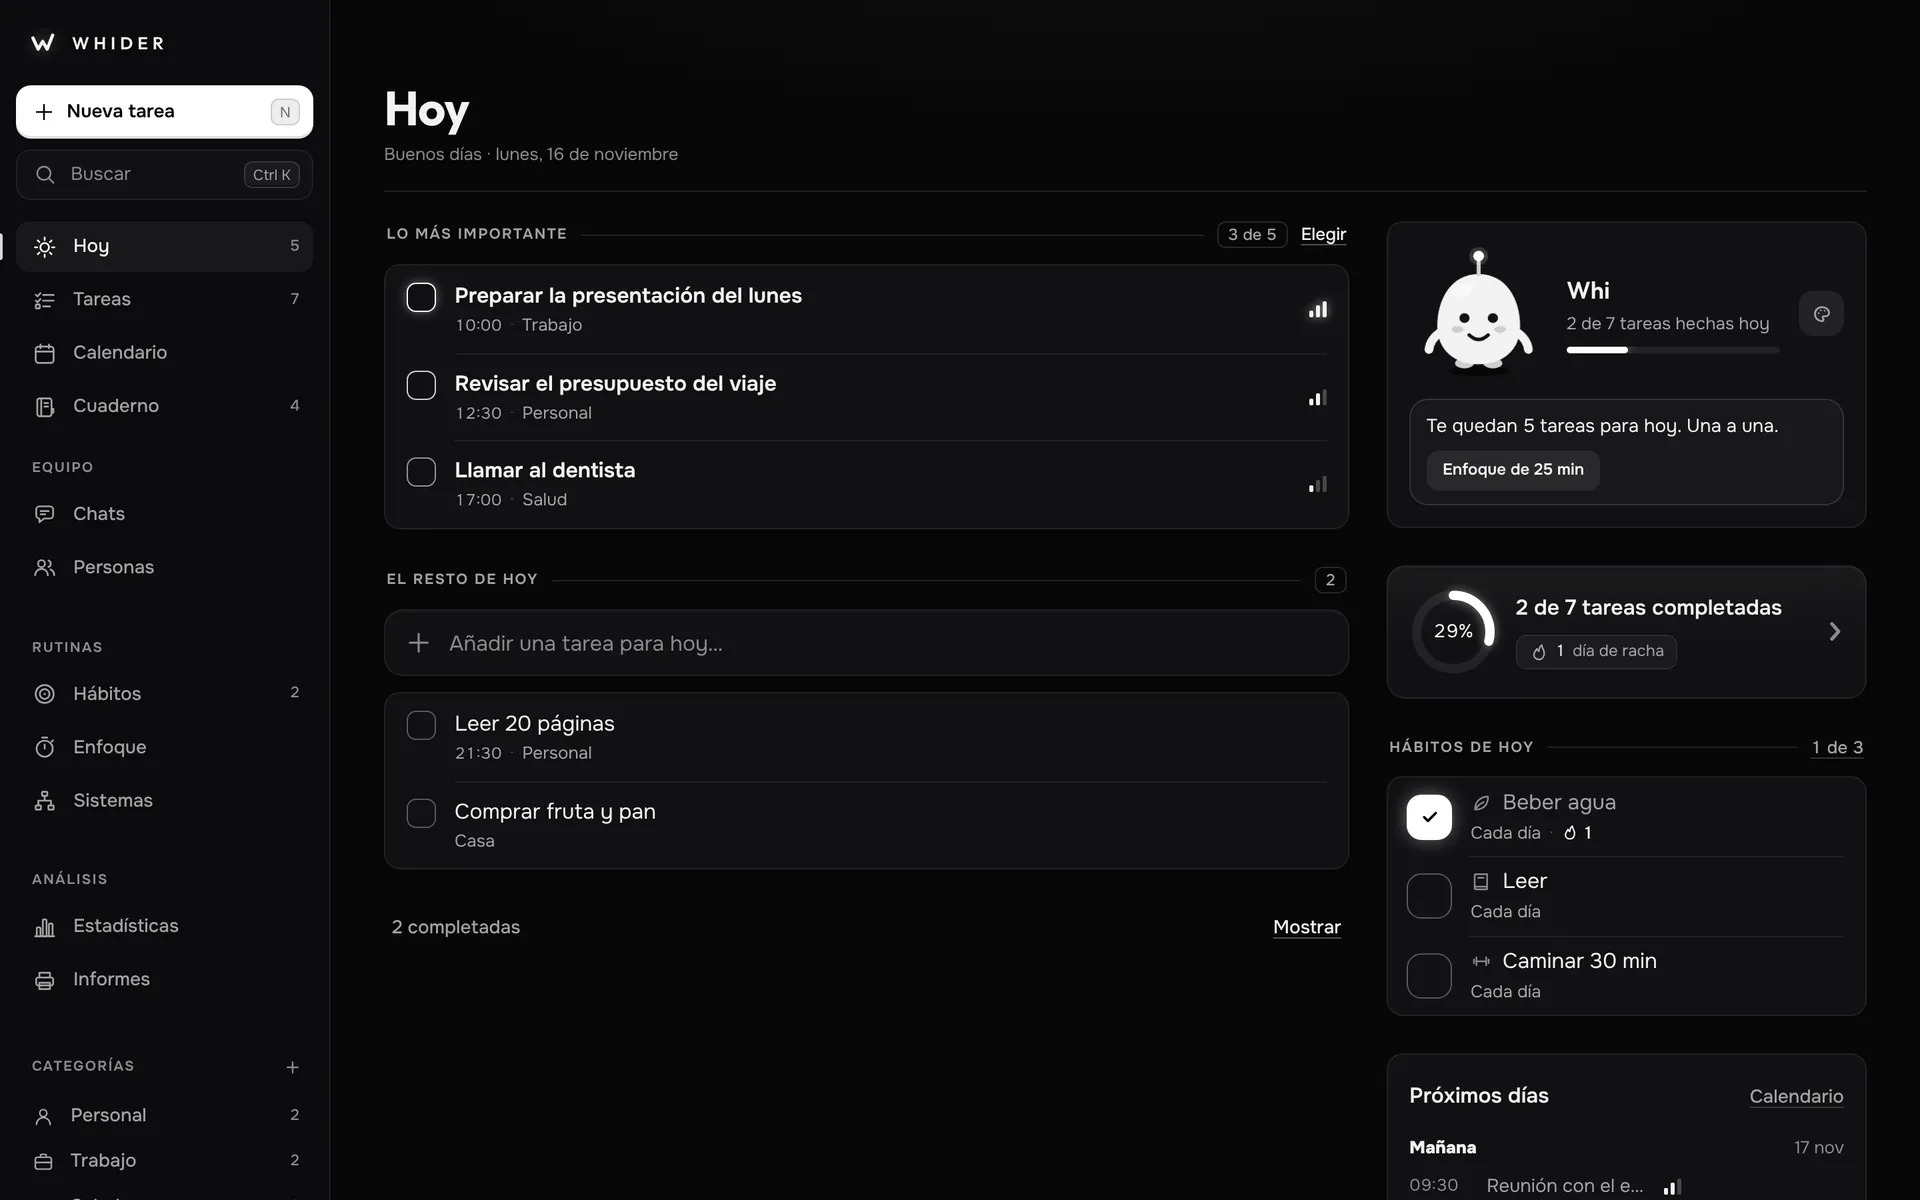
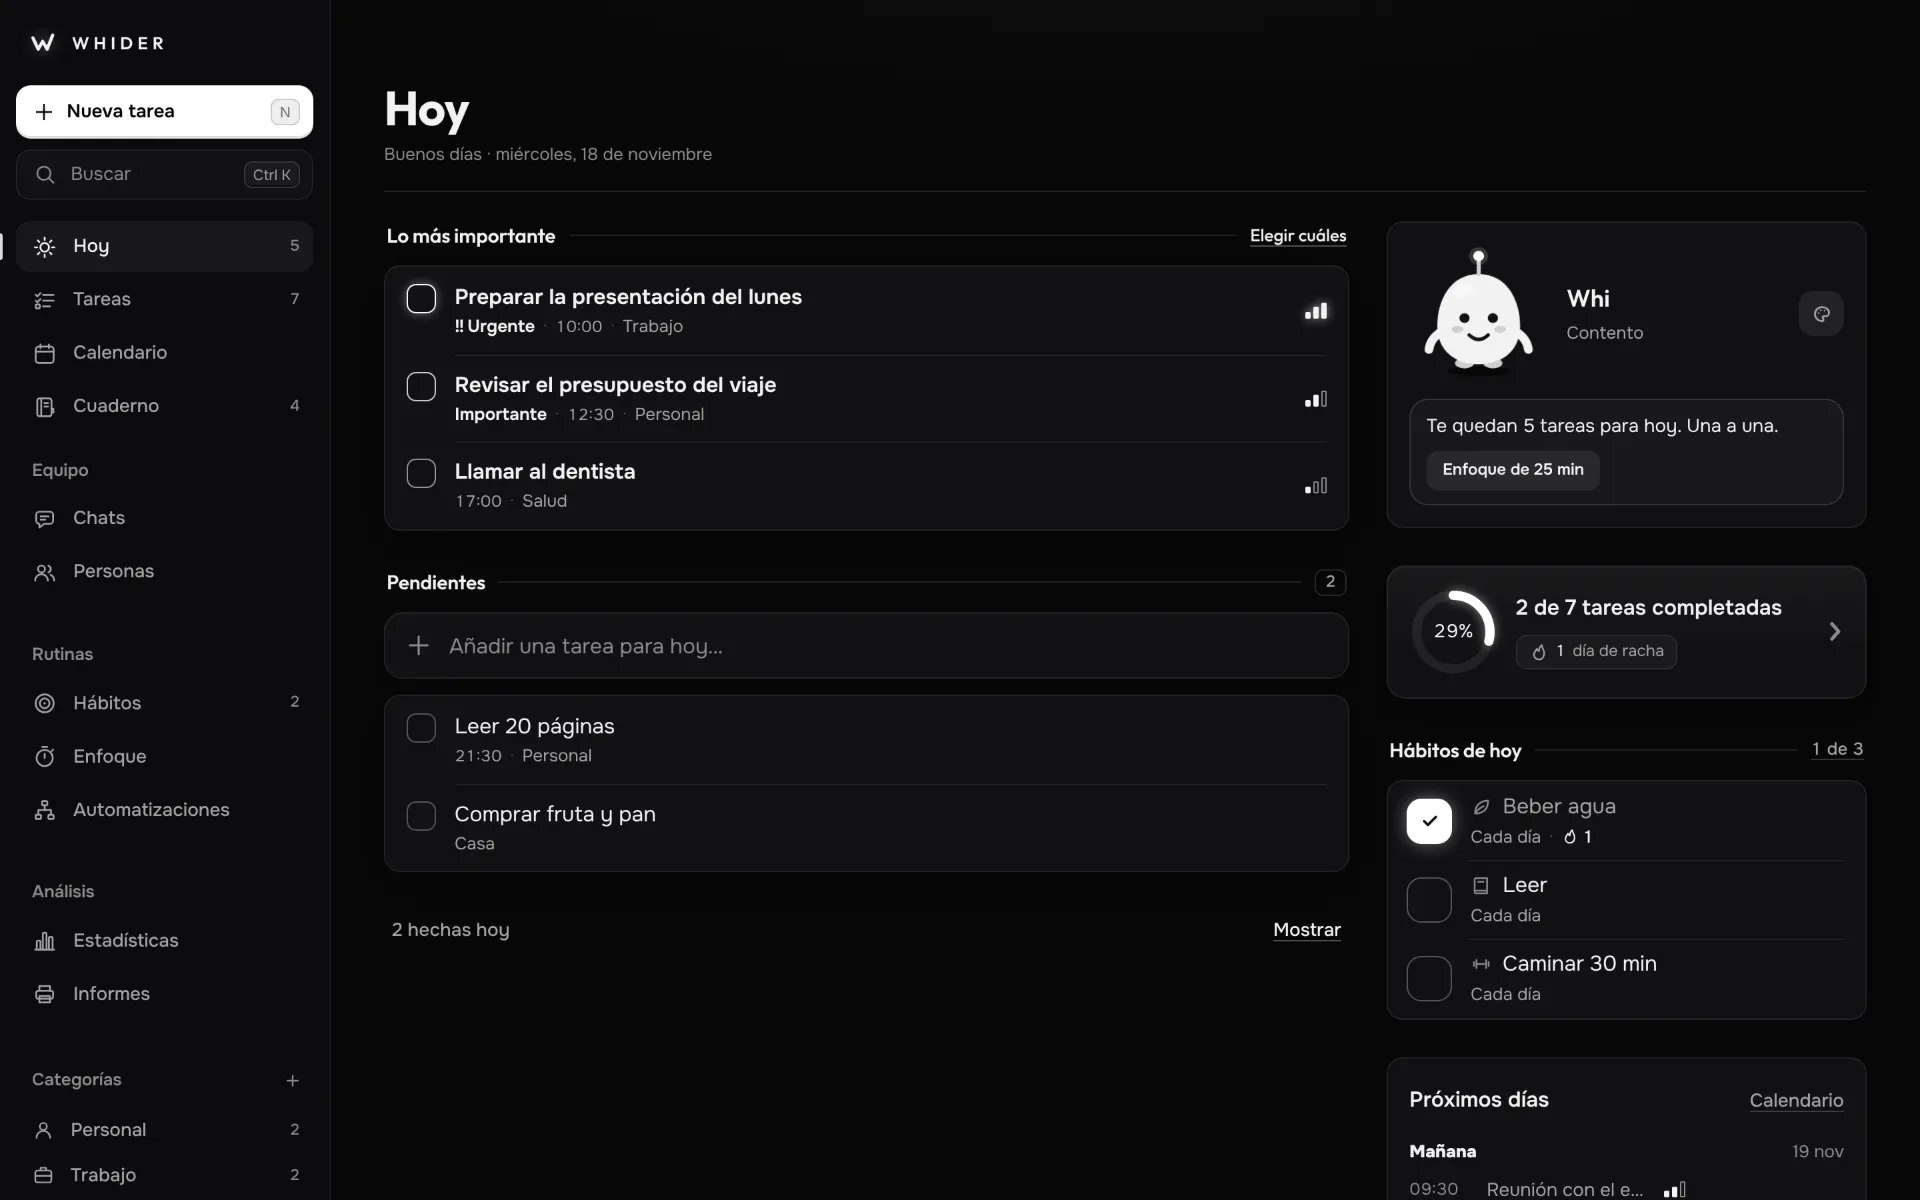
WHIDER 1.1.0
La 1.1 estable: tema claro, importar desde otras apps, un Hoy más claro, sincronización sin
pérdidas, copias automáticas, más seguridad y un ordenador que se actualiza solo.

- CHANGELOG: una sola entrada 1.1.0 con todo lo de la beta y lo posterior (quien viene de la 1.0
  lo ve entero en «Novedades»; la beta queda como historial).
- node tools/version.js 1.1.0: escritorio, Android (versionCode 1010099), la app y la portada
  («WHIDER 1.1» y sus novedades); las de la portada en inglés, traducidas.
- Capturas de la portada y la imagen para compartir, rehechas con la 1.1.

Al subirlo, «Publicar versión» compila Windows, macOS (Apple Silicon e Intel), Linux (AppImage
y .deb) y Android y publica v1.1.0 como «Latest».

Claude-Session: https://claude.ai/code/session_01CCsjTKE4cK7SuvKnaVPR8X

diff --git a/js/core/version.js b/js/core/version.js
@@ -1,25 +1,29 @@
 // Generado por tools/version.js desde package.json y CHANGELOG.md: no lo edites a mano.
 // Para cambiar la versión: node tools/version.js 1.2.3 (y su entrada en CHANGELOG.md).
 window.Whider = window.Whider || {};
-window.Whider.VERSION = "1.1.0-beta.1";
+window.Whider.VERSION = "1.1.0";
 window.Whider.RELEASES = [
  {
-  "v": "1.1.0-beta.1",
+  "v": "1.1.0",
   "date": "2026-11-18",
-  "summary": "Versión de prueba de la 1.1: el día a día más claro, importar desde otras apps, sincronización sin pérdidas y más seguridad.",
+  "summary": "La 1.1: tema claro, importar desde otras apps, un Hoy más claro, sincronización sin pérdidas, copias automáticas, más seguridad y un ordenador que se actualiza solo.",
   "groups": [
    {
     "t": "Novedades",
     "items": [
-     "**Importar** desde Todoist, Google Tasks, Notion, calendarios (.ics) o cualquier CSV, con vista previa, categorías nuevas, repetidas reconocidas y opción de deshacer durante un día (Ajustes → Datos → Importar y exportar).",
+     "**Importar** desde Todoist, Google Tasks, Notion, calendarios (.ics) o cualquier CSV, con vista previa, categorías nuevas, repetidas reconocidas y opción de deshacer durante un día (Ajustes → Datos → Importar desde otras apps).",
+     "**Tema claro**: Ajustes → Apariencia → Tema (Oscuro, Claro o «Como el sistema»). Toda la app, también la ventana del ordenador y las barras del sistema en Android, sin destellos al abrir; el alto contraste también funciona en claro.",
      "**Hoy, por estados**: lo más importante, en curso, vencidas, pendientes y hechas. Una tarea puede marcarse «En curso».",
+     "**Copias automáticas** sin cuenta: en el ordenador, una al día en la carpeta de datos de WHIDER (las 10 últimas, con la lista para recuperarlas); en Android, en Descargas › WHIDER › Copias (las 7 últimas, que siguen ahí aunque desinstales la app). En el navegador, un aviso en Hoy si pasa una semana sin copia.",
+     "**El ordenador se actualiza solo**: en Windows y en Linux (AppImage), WHIDER descarga la versión nueva y la instala al cerrar; en macOS y en Linux (.deb) avisa con el enlace.",
      "**Color por categoría** (opcional) y **prioridad legible**: «Urgente» e «Importante» se escriben junto a la tarea y pueden ir en color.",
-     "**Barra inferior a tu gusto** en el móvil: tres pestañas entre Hoy, Tareas, Calendario, Cuaderno, Chats, Hábitos y Enfoque.",
-     "**Primeros pasos**: cinco pasos que se cumplen solos mientras usas la app.",
      "**Android**: widget «Hoy», compartir texto con WHIDER desde otras apps y avisos a la hora exacta (permiso opcional).",
+     "**Barra inferior a tu gusto** en el móvil: tres pestañas entre Hoy, Tareas, Calendario, Cuaderno, Chats, Hábitos y Enfoque.",
+     "**Ayuda** (Ajustes → Ayuda): preguntas frecuentes, las novedades de cada versión y «Enviar comentarios» (una idea, algo que no funciona u otra cosa).",
      "**Bloquear y denunciar** a personas, chats o mensajes. Las personas bloqueadas están en Ajustes → Privacidad.",
-     "**Novedades de cada versión** en Ajustes → Ayuda, y un aviso en Hoy cuando WHIDER se actualiza.",
-     "**Ordenador**: WHIDER se actualiza sola en Windows y en Linux (AppImage), y en macOS y Linux (.deb) avisa cuando hay una versión nueva."
+     "**Instalar en el iPhone**: WHIDER explica cómo añadirla a la pantalla de inicio; en Chrome y Edge, un botón «Instalar».",
+     "**Primeros pasos**: cinco pasos que se cumplen solos mientras usas la app.",
+     "**La web, también en inglés**: la portada (/en/) y la política de privacidad (/privacy/). La app sigue en español por ahora."
     ]
    },
    {
@@ -27,10 +31,14 @@ window.Whider.RELEASES = [
     "items": [
      "Sincronización sin sobrescrituras: si cambias la misma tarea en dos dispositivos a la vez, se conservan los dos cambios; en el Cuaderno, las dos versiones de un bloque.",
      "Errores de la nube claros, con lo que hay que hacer y reintentos de verdad; un punto en el engranaje avisa de cambios sin subir.",
+     "La web abre antes: en un móvil de gama media, la primera visita tarda un 38 % menos hasta poder usarla, y el navegador guarda la app hasta que cambia.",
+     "**Informes de errores, solo si quieres**: se guardan en el dispositivo (Ajustes → Ayuda → Errores recientes) y, si activas «Enviar informes de errores» en Ajustes → Privacidad, se envían sin tu nombre ni tu cuenta.",
      "Cuando la copia en la nube se acerca a su tamaño máximo, las tareas completadas hace más de un año pasan a un archivo (se puede ver y exportar en Ajustes → Datos).",
      "Menos consumo: la app consulta la nube menos a menudo cuando no la estás usando.",
      "Descargas más ligeras para ordenador: un instalador para cada tipo de Mac (Apple Silicon o Intel) en lugar de uno doble, y solo los idiomas que se usan. Nuevo paquete .deb para Debian, Ubuntu y Mint (no necesita libfuse2).",
-     "Títulos de sección más legibles; «Sistemas» pasa a llamarse «Automatizaciones»."
+     "Títulos de sección más legibles; «Sistemas» pasa a llamarse «Automatizaciones».",
+     "En el calendario mensual del ordenador, los días del mes anterior y del siguiente se leen mejor (tenían poco contraste).",
+     "Portada web: las novedades de cada versión, preguntas frecuentes y cómo pedir ayuda; en el iPhone, cómo añadirla desde Safari."
     ]
    },
    {
@@ -44,7 +52,7 @@ window.Whider.RELEASES = [
     "items": [
      "Nadie puede obtener la lista de perfiles ni de códigos de amigo; lo que otros dejan en tu buzón tiene un tamaño limitado.",
      "Las claves de las invitaciones y de los enlaces de equipo se generan con el generador criptográfico del sistema.",
-     "Política de privacidad al día: bloqueos, denuncias, archivo, alarmas exactas y quién ve el perfil público."
+     "Política de privacidad al día: bloqueos, denuncias, archivo, alarmas exactas, quién ve el perfil público, informes de errores y comentarios."
     ]
    }
   ]

diff --git a/sitio/index.html b/sitio/index.html
@@ -88,7 +88,7 @@
 <main id="contenido">
   <section class="hero" aria-labelledby="t-hero">
     <div class="wrap">
-      <p class="eyebrow rise d1"><span data-version>WHIDER 1.0</span> · Gratis y sin anuncios</p>
+      <p class="eyebrow rise d1"><span data-version>WHIDER 1.1</span> · Gratis y sin anuncios</p>
       <h1 id="t-hero"><span class="l rise d2">Tu día,</span><span class="l rise d3">bajo control.</span></h1>
       <p class="lead rise d4">Tareas, calendario, hábitos, enfoque y un Cuaderno para tus ideas. Todo en un sitio y sincronizado entre el ordenador, el móvil y la web.</p>
       <div class="cta rise d5">
@@ -157,13 +157,15 @@
   <section class="sec" id="novedades" aria-labelledby="t-new">
     <div class="wrap">
       <p class="label rv">Novedades</p>
-      <h2 id="t-new" class="rv">Lo nuevo en<br><span data-version>WHIDER 1.0</span>.</h2>
+      <h2 id="t-new" class="rv">Lo nuevo en<br><span data-version>WHIDER 1.1</span>.</h2>
       <!-- novedades:inicio · las escribe tools/version.js desde CHANGELOG.md (la versión que anuncia la portada): no las edites a mano -->
       <ul class="news">
-        <li class="rv">Todas las funciones para todos: desaparecen Premium, los planes y los pagos.</li>
-        <li class="rv">Identidad nueva: tipografías Onest y Outfit, iconos propios y esquinas curvadas.</li>
-        <li class="rv">Portada web con la descarga para cada dispositivo; la app en el navegador pasa a /app.</li>
-        <li class="rv">Eliminar la cuenta desde la app o desde la web, sin instalar nada.</li>
+        <li class="rv"><b>Importar</b> desde Todoist, Google Tasks, Notion, calendarios (.ics) o cualquier CSV, con vista previa, categorías nuevas, repetidas reconocidas y opción de deshacer durante un día (Ajustes → Datos → Importar desde otras apps).</li>
+        <li class="rv"><b>Tema claro</b>: Ajustes → Apariencia → Tema (Oscuro, Claro o «Como el sistema»).</li>
+        <li class="rv"><b>Hoy, por estados</b>: lo más importante, en curso, vencidas, pendientes y hechas.</li>
+        <li class="rv"><b>Copias automáticas</b> sin cuenta: en el ordenador, una al día en la carpeta de datos de WHIDER (las 10 últimas, con la lista para recuperarlas); en Android, en Descargas › WHIDER › Copias (las 7 últimas, que siguen ahí aunque desinstales la app).</li>
+        <li class="rv"><b>El ordenador se actualiza solo</b>: en Windows y en Linux (AppImage), WHIDER descarga la versión nueva y la instala al cerrar; en macOS y en Linux (.deb) avisa con el enlace.</li>
+        <li class="rv"><b>Color por categoría</b> (opcional) y <b>prioridad legible</b>: «Urgente» e «Importante» se escriben junto a la tarea y pueden ir en color.</li>
       </ul>
       <!-- novedades:fin -->
       <p class="more rv"><a href="https://github.com/McTn4/whider-2.0-PREMIUM/blob/main/CHANGELOG.md">Todas las versiones y sus cambios</a></p>
@@ -247,7 +249,7 @@
 <footer class="foot">
   <div class="wrap">
     <a class="brand" href="#top"><svg viewBox="0 0 64 64" aria-hidden="true"><path d="M12.5 22.5 23 45l9-15.5L41 45l11-28" fill="none" stroke="#F2F2F2" stroke-width="6.4" stroke-linecap="round" stroke-linejoin="round"/></svg>WHIDER</a>
-    <p>Tu día, bajo control · <span data-version>WHIDER 1.0</span> · © <span id="year">2026</span></p>
+    <p>Tu día, bajo control · <span data-version>WHIDER 1.1</span> · © <span id="year">2026</span></p>
     <nav aria-label="Pie de página">
       <a href="/app">Abrir WHIDER</a>
       <a href="#descargar">Descargar</a>

diff --git a/sitio/en/index.html b/sitio/en/index.html
@@ -88,7 +88,7 @@
 <main id="contenido">
   <section class="hero" aria-labelledby="t-hero">
     <div class="wrap">
-      <p class="eyebrow rise d1"><span data-version>WHIDER 1.0</span> · Free, no ads</p>
+      <p class="eyebrow rise d1"><span data-version>WHIDER 1.1</span> · Free, no ads</p>
       <h1 id="t-hero"><span class="l rise d2">Your day,</span><span class="l rise d3">under control.</span></h1>
       <p class="lead rise d4">Tasks, calendar, habits, focus and a Notebook for your ideas. All in one place, synced between your computer, your phone and the web.</p>
       <div class="cta rise d5">
@@ -158,13 +158,15 @@
   <section class="sec" id="novedades" aria-labelledby="t-new">
     <div class="wrap">
       <p class="label rv">What’s new</p>
-      <h2 id="t-new" class="rv">New in<br><span data-version>WHIDER 1.0</span>.</h2>
+      <h2 id="t-new" class="rv">New in<br><span data-version>WHIDER 1.1</span>.</h2>
       <!-- Translated by hand from CHANGELOG.md (tools/version.js --check fails if they belong to another version) -->
-      <ul class="news" data-news-version="1.0">
-        <li class="rv">Every feature for everyone: Premium, plans and payments are gone.</li>
-        <li class="rv">A new identity: the Onest and Outfit typefaces, custom icons and rounded corners.</li>
-        <li class="rv">A website with the right download for each device; the web app moves to /app.</li>
-        <li class="rv">Delete your account from the app or from the web, without installing anything.</li>
+      <ul class="news" data-news-version="1.1">
+        <li class="rv"><b>Import</b> from Todoist, Google Tasks, Notion, calendars (.ics) or any CSV, with a preview, new categories, duplicates detected and the option to undo for a day.</li>
+        <li class="rv"><b>Light theme</b>: dark, light or “like the system”, in Ajustes → Apariencia → Tema (Settings → Appearance → Theme).</li>
+        <li class="rv"><b>Today, by status</b>: most important, in progress, overdue, pending and done.</li>
+        <li class="rv"><b>Automatic backups</b> without an account: on desktop, one a day in WHIDER’s data folder (the last 10, with a list to restore them); on Android, in Downloads › WHIDER › Copias (the last 7, which stay there even if you uninstall the app).</li>
+        <li class="rv"><b>The desktop app updates itself</b>: on Windows and Linux (AppImage), WHIDER downloads the new version and installs it when you close it; on macOS and Linux (.deb) it lets you know, with the link.</li>
+        <li class="rv"><b>Color per category</b> (optional) and <b>readable priority</b>: the priority is written next to the task and can be shown in color.</li>
       </ul>
       <p class="more rv"><a href="https://github.com/McTn4/whider-2.0-PREMIUM/blob/main/CHANGELOG.md">Every version and its changes</a> (in Spanish)</p>
     </div>
@@ -248,7 +250,7 @@
 <footer class="foot">
   <div class="wrap">
     <a class="brand" href="#top"><svg viewBox="0 0 64 64" aria-hidden="true"><path d="M12.5 22.5 23 45l9-15.5L41 45l11-28" fill="none" stroke="#F2F2F2" stroke-width="6.4" stroke-linecap="round" stroke-linejoin="round"/></svg>WHIDER</a>
-    <p>Your day, under control · <span data-version>WHIDER 1.0</span> · © <span id="year">2026</span></p>
+    <p>Your day, under control · <span data-version>WHIDER 1.1</span> · © <span id="year">2026</span></p>
     <nav aria-label="Footer">
       <a href="/app">Open WHIDER</a>
       <a href="#descargar">Download</a>

diff --git a/sitio/descargas.js b/sitio/descargas.js
@@ -9,7 +9,7 @@
   var REL = 'https://github.com/McTn4/whider-2.0-PREMIUM/releases/download/desktop-latest/';
 
   var D = window.WhiderDescargas = {
-    version: '1.0.0',
+    version: '1.1.0',
     /** Ficha de Google Play (vacío mientras no esté publicada) */
     play: '',
     /** La app en el navegador */

diff --git a/CHANGELOG.md b/CHANGELOG.md
@@ -8,7 +8,7 @@ Este archivo es la fuente de las notas que enseña la app (Ajustes → Ayuda →
 Las secciones «Novedades», «Mejoras», «Correcciones» y «Seguridad» se ven en la app; «Para desarrolladores», solo aquí.
 Cómo publicar una versión: [docs/PUBLICAR-UNA-VERSION.md](docs/PUBLICAR-UNA-VERSION.md).
 
-## [Sin publicar]
+## [1.1.0] · 2026-11-18
 
 La 1.1: tema claro, importar desde otras apps, un Hoy más claro, sincronización sin pérdidas, copias automáticas, más
 seguridad y un ordenador que se actualiza solo.
